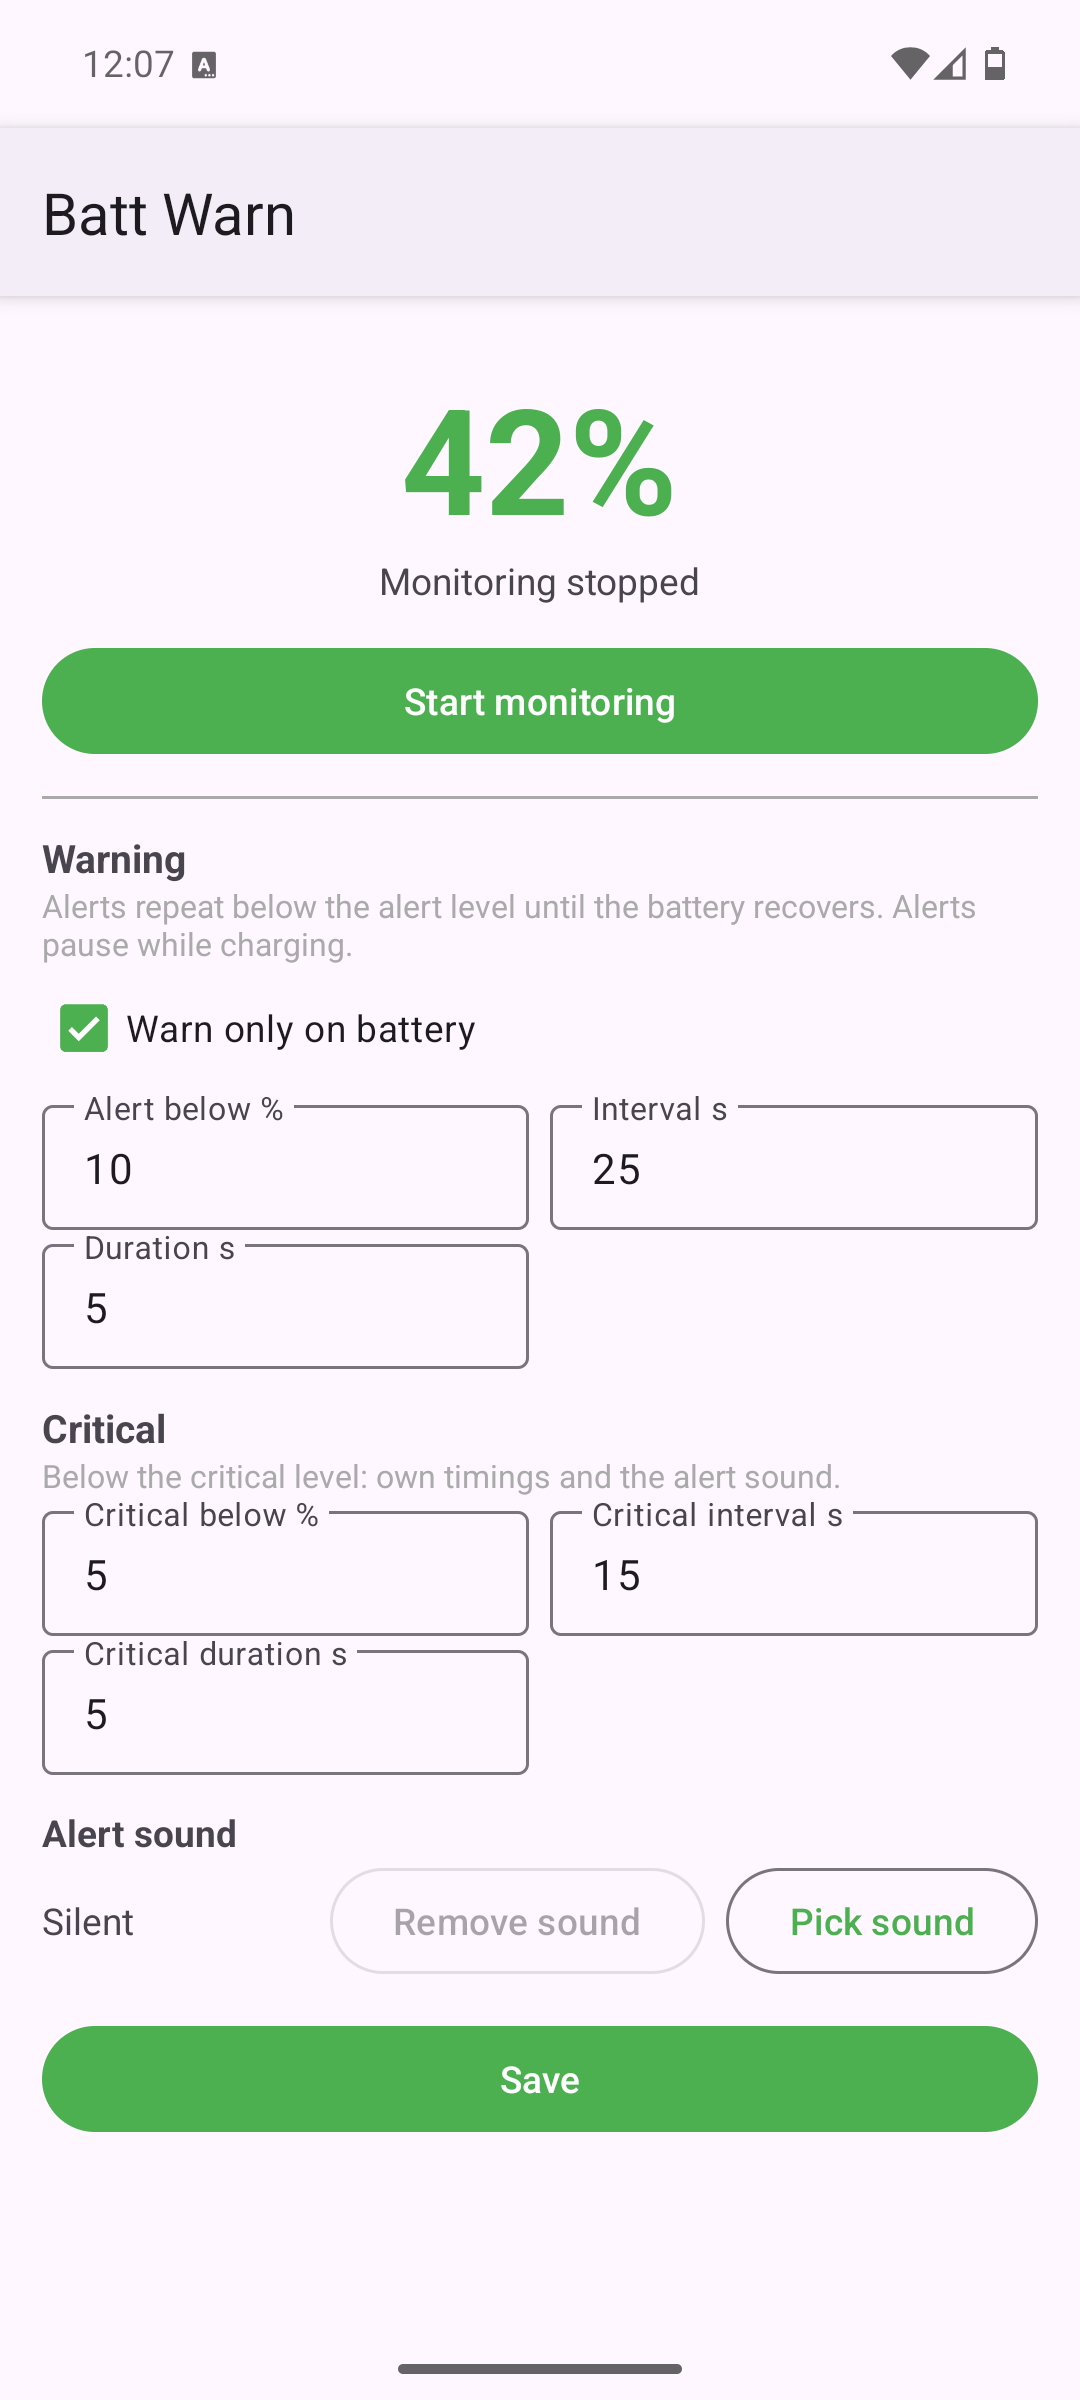
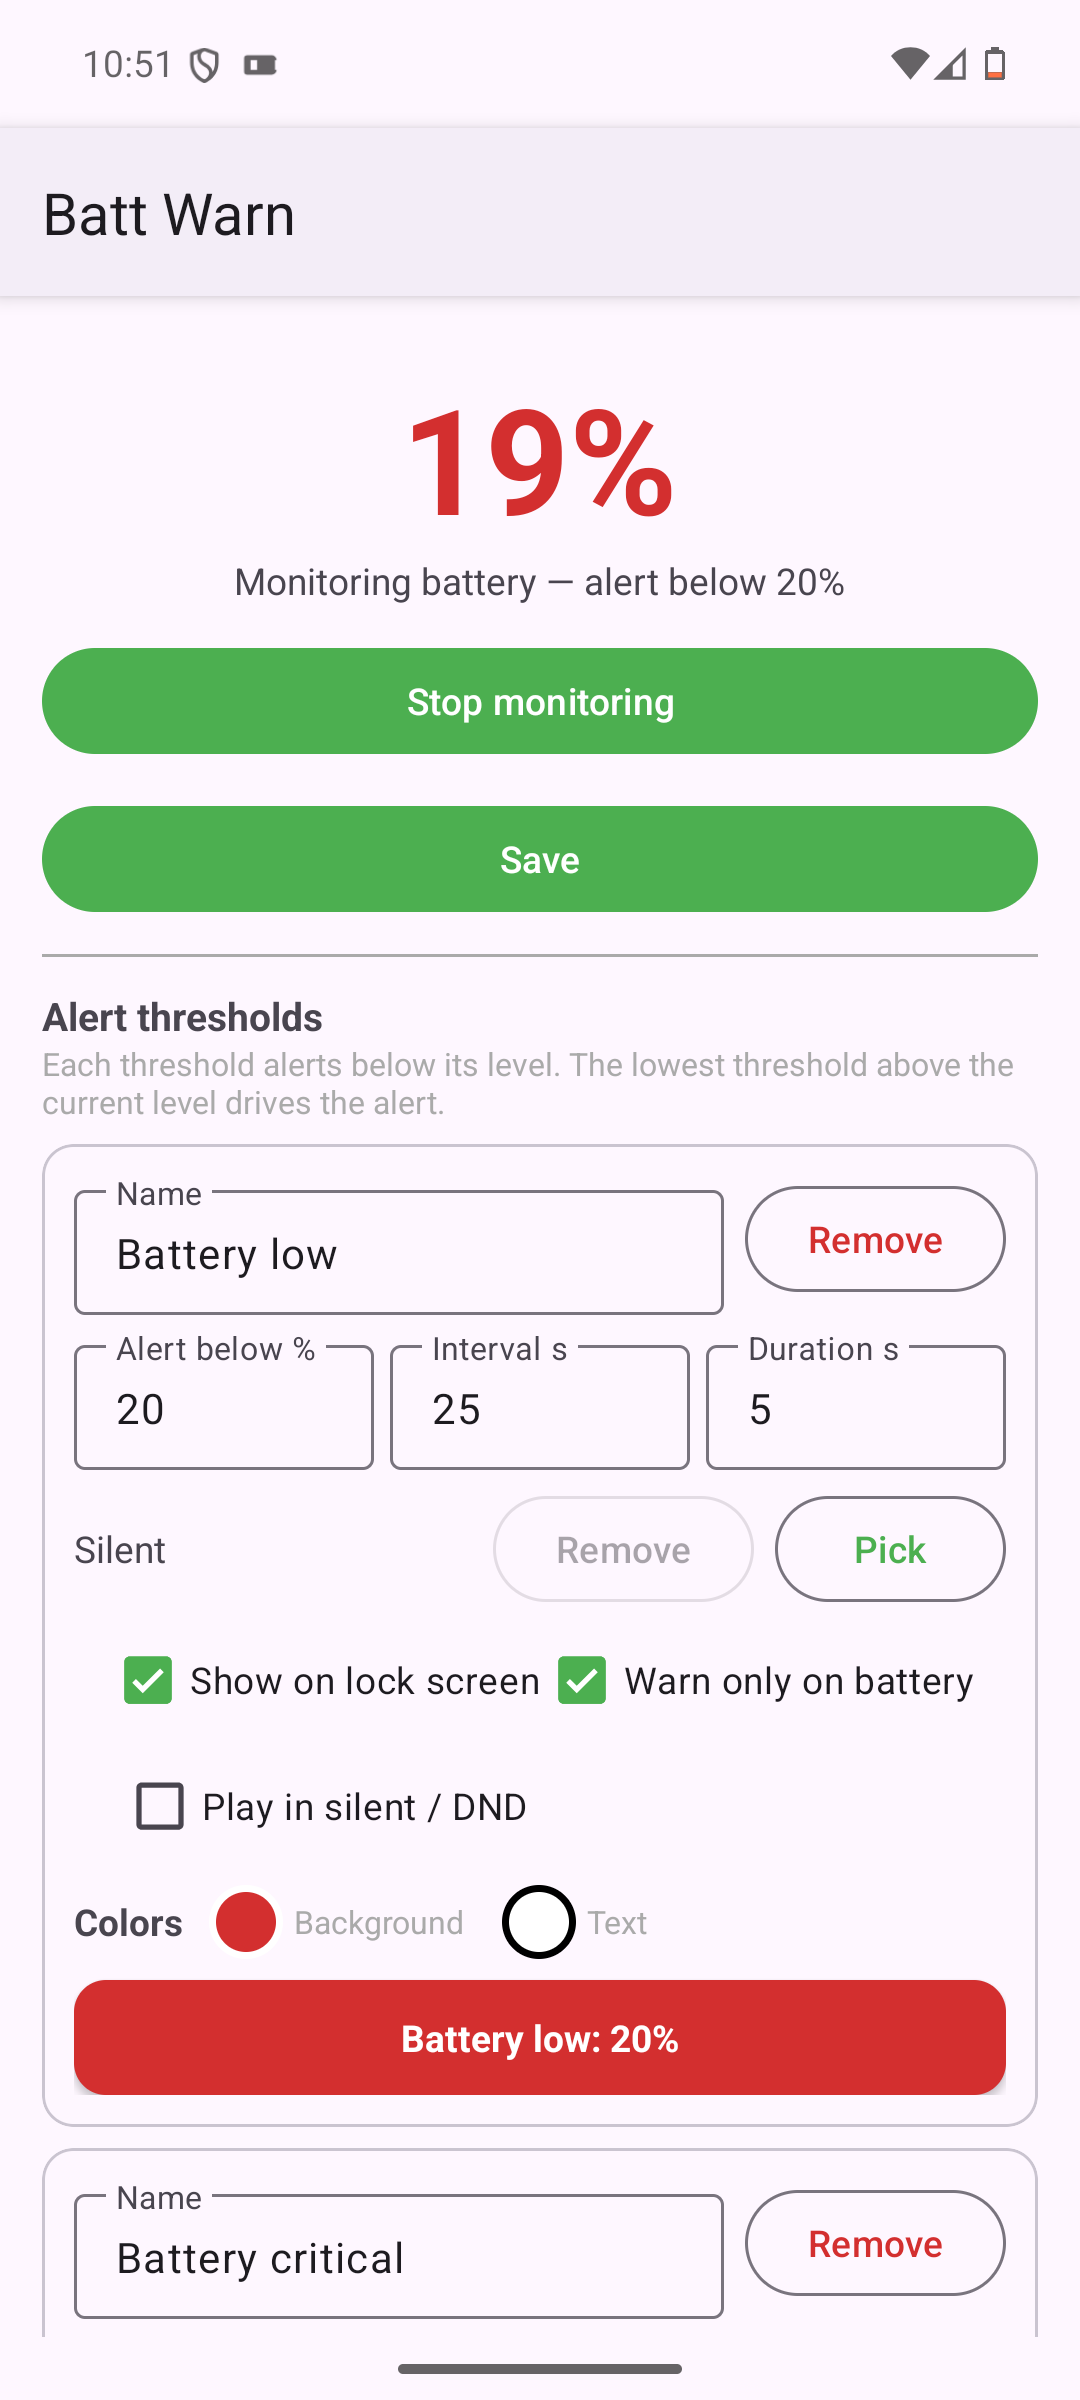
docs: refresh screenshots and update the license and project docs
Broaden NOTICE to the full bundled Apache-2.0 classpath (AndroidX incl.
viewbinding and transitives, Material, Kotlin stdlib, coroutines, Guava,
errorprone and JetBrains annotations) and mirror it in the README runtime
list. Fix the README test counts, drop the duplicate warn-only bullet, and
document the legal-resource pipeline, About screen and corrected Gradle
task names across AGENTS.md and docs/. Refresh the stale screenshots and
add About, lock-screen and color-picker captures.

diff --git a/AGENTS.md b/AGENTS.md
@@ -40,6 +40,7 @@ make devices      # adb devices
 make emulator     # boot headless API 35 emulator (AVD "test") if not running
 make test         # gradle connectedDebugAndroidTest + per-test PASS/FAIL summary
 make test-boot    # boot emulator (waits for boot) then run instrumented tests
+make screenshots  # capture/refresh docs/screenshots from a running emulator
 ```
 
 Direct Gradle options:
@@ -47,7 +48,7 @@ Direct Gradle options:
 ```
 gradle assembleDebug            # build debug APK
 gradle lintDebug                # Android Lint
-gradle testUnitTest             # JVM unit tests (threshold model, no emulator)
+gradle testDebugUnitTest        # JVM unit tests (threshold model, no emulator)
 gradle connectedDebugAndroidTest  # instrumented tests (emulator must be up)
 
 make test streams failures live while running and ends with a per-test
@@ -70,7 +71,8 @@ screen already on + overlay permission, activity renders the message/colors and
 auto-dismisses), the charging suppression (the active tier's
 warn-only-on-battery flag pauses or continues alerts while plugged in), the
 threshold-list settings (fresh 20%/9% baseline, JSON
-round-trip, add/load rows), and the main activity UI.
+round-trip, add/load rows), the main activity UI, and the in-app legal screen
+(version, privacy, MIT, third-party notices, Apache-2.0).
 
 ## Project layout
 
@@ -83,8 +85,10 @@ app/src/main/kotlin/com/example/battwarn/
   AlertThreshold.kt            # tier data class, JSON codec, selection helpers, color palette
   OverlayAlert.kt              # floating "always visible" alert banner (SYSTEM_ALERT_WINDOW)
   LockScreenAlertActivity.kt   # full-screen warning above the lock screen (showWhenLocked)
+  AboutActivity.kt             # in-app legal screen (version, privacy, MIT, notices, Apache-2.0)
 app/src/main/AndroidManifest.xml
 app/src/main/res/              # layout, strings, colors, theme, icons
+app/src/main/res/layout/activity_about.xml  # About screen layout
 app/src/androidTest/kotlin/com/example/battwarn/
   BootReceiverTest.kt          # autostart contract (manifest + receiver behavior)
   ServiceSmokeTest.kt          # FGS lifecycle + notification
@@ -95,10 +99,15 @@ app/src/androidTest/kotlin/com/example/battwarn/
   OverlayAlertTest.kt          # overlay permission + banner render/hide/dismiss callback
   OverrideSilentDndTest.kt     # per-threshold silent/DND override + UI round-trip
   LockScreenAlertTest.kt       # lock-screen gate, activity render/colors/auto-dismiss, UI round-trip
+  AboutActivityTest.kt         # in-app legal screen renders version, privacy, MIT, notices, Apache-2.0
 app/src/test/kotlin/com/example/battwarn/
   AlertThresholdTest.kt        # JVM unit tests: selection, JSON codec, colors (no emulator)
+LICENSE                        # MIT license text (single source for the in-app copy)
+NOTICE                         # third-party attributions + AI disclosure
+LICENSES/Apache-2.0.txt        # full Apache-2.0 text for the bundled libraries
 shell.nix                      # nix dev env (JDK, Gradle, Android SDK, emulator)
 Makefile                       # command wrappers
+scripts/                       # test-report.sh, screenshots.sh
 README.md                      # project overview and quick start
 docs/                          # architecture, behavior, testing, screenshots
 ```
@@ -177,6 +186,12 @@ docs/                          # architecture, behavior, testing, screenshots
   codec and selection helpers are JVM-unit-testable. MainActivity keeps the
   in-memory edits per row until Save.
 - `viewBinding` is enabled; use it in new layouts.
+- The in-app legal texts are generated at build time (`generateLegalResources`
+  in `app/build.gradle.kts`) from the repo's `LICENSE`, `NOTICE`, and
+  `LICENSES/Apache-2.0.txt`, which are the single source of truth. Never copy
+  legal text into source or `res/`; edit the top-level files instead. When the
+  bundled dependencies change, update `NOTICE` (and the README list) to match
+  the release runtime classpath.
 - Every source file (Kotlin, XML, Gradle, shell, make) carries the SPDX header
   `// SPDX-FileCopyrightText: 2026 Batt Warn authors` and
   `// SPDX-License-Identifier: MIT` (XML uses `<!-- ... -->` comments; keep it

diff --git a/README.md b/README.md
@@ -18,16 +18,26 @@ alerts before the battery gets too low.
   sound, quiet interval, banner duration, lock-screen display, silent/DND
   override, background/text colors, and a per-threshold **Warn only on
   battery** mode that pauses alerts while charging.
-- Critical alerts can play a user-picked notification sound.
+- Every threshold can play a user-picked notification sound.
 - Floating bottom banner when “Display over other apps” is enabled.
 - Full-screen lock-screen warning (default on) while the display is already on.
 - Notification fallback with the current battery percentage.
-- Optional **Warn only on battery** mode (per threshold), which pauses that
-  tier's alerts while charging.
 - Starts after boot and package replacement.
-- Compact light/dark UI with live battery updates.
+- Compact light/dark UI with live battery updates, plus an in-app About screen
+  showing the license texts and privacy statement.
 
-More screenshots are available in [docs/screenshots](docs/screenshots/).
+Screenshots live in [docs/screenshots](docs/screenshots/): the main screen in
+light and dark mode, the low-battery state, the floating banner, the
+notification, the About/license screen, the lock-screen warning, and the color
+picker.
+
+<p align="center">
+  <img src="docs/screenshots/main-low.png" width="200" alt="Batt Warn monitoring a low battery">
+  <img src="docs/screenshots/notification.png" width="200" alt="Foreground-service battery notification">
+  <img src="docs/screenshots/about.png" width="200" alt="Batt Warn About screen with license and privacy texts">
+  <img src="docs/screenshots/lock-screen.png" width="200" alt="Full-screen low-battery warning over the lock screen">
+  <img src="docs/screenshots/color-picker.png" width="200" alt="Threshold color picker popup">
+</p>
 
 ## Quick start
 
@@ -111,7 +121,7 @@ other periodic background work.
 - Target/compile SDK: 35
 - Gradle: 8.14.4
 - JDK: 17
-- Instrumented tests: 43 (plus 7 JVM unit tests)
+- Instrumented tests: 51 (plus 8 JVM unit tests)
 
 ## Documentation
 
@@ -127,10 +137,22 @@ shipped inside the APK; the rest are build/test-only.
 
 Runtime (bundled in the APK):
 
-- [androidx.core:core-ktx 1.15.0](https://developer.android.com/jetpack/androidx) — Apache-2.0
-- [androidx.appcompat:appcompat 1.7.0](https://developer.android.com/jetpack/androidx) — Apache-2.0
-- [com.google.android.material:material 1.12.0](https://github.com/material-components/material-components-android) — Apache-2.0
-- [androidx.constraintlayout:constraintlayout 2.2.0](https://developer.android.com/jetpack/androidx) — Apache-2.0
+- [AndroidX](https://developer.android.com/jetpack/androidx) — `androidx.core:core-ktx 1.15.0`,
+  `androidx.appcompat:appcompat 1.7.0`, `androidx.constraintlayout:constraintlayout 2.2.0`,
+  `androidx.databinding:viewbinding 8.10.1`, and their transitive AndroidX
+  dependencies — Apache-2.0
+- [Material Components for Android](https://github.com/material-components/material-components-android) —
+  `com.google.android.material:material 1.12.0` — Apache-2.0
+- [Kotlin standard library](https://github.com/JetBrains/kotlin) —
+  `org.jetbrains.kotlin:kotlin-stdlib 2.2.21` (and its common/jdk7/jdk8 modules) — Apache-2.0
+- [Kotlin Coroutines](https://github.com/Kotlin/kotlinx.coroutines) —
+  `org.jetbrains.kotlinx:kotlinx-coroutines-android` / `kotlinx-coroutines-core 1.6.4` — Apache-2.0
+- [Guava listenablefuture](https://github.com/google/guava) —
+  `com.google.guava:listenablefuture 1.0` — Apache-2.0
+- [Error Prone annotations](https://github.com/google/error-prone) —
+  `com.google.errorprone:error_prone_annotations 2.15.0` — Apache-2.0
+- [JetBrains annotations](https://github.com/JetBrains/java-annotations) —
+  `org.jetbrains:annotations 13.0` — Apache-2.0
 
 Build/test-only:
 

diff --git a/docs/architecture.md b/docs/architecture.md
@@ -11,6 +11,7 @@
 | `AlertThreshold` | Data class for one tier (level, name, timings, sound, flags, colors), JSON codec, and pure selection helpers |
 | `OverlayAlert` | Bottom `TYPE_APPLICATION_OVERLAY` banner with auto/tap dismissal, tinted per threshold |
 | `LockScreenAlertActivity` | Full-screen `showWhenLocked` warning above the keyguard; auto/tap dismissal; colored per threshold |
+| `AboutActivity` | In-app legal screen: version, privacy statement, MIT license, third-party notices, and the full Apache-2.0 text |
 
 ## State flow
 
@@ -73,3 +74,21 @@ Intervals and durations accept values of one second or greater with no upper
 cap. Levels are clamped to 0–100, must be unique, and are stored sorted by
 level descending (most severe first). Colors are persisted as `#RRGGBB`
 strings and parsed by the pure `parseHexColor` helper.
+
+## Legal texts
+
+The app is MIT-licensed, and the About screen shows the legal texts inside the
+app. They are generated at build time, so each text has exactly one source in
+the repo:
+
+| Source | Generated raw resource | Shown as |
+| --- | --- | --- |
+| `LICENSE` | `mit_license.txt` | the app's MIT license |
+| `NOTICE` | `third_party_notices.txt` | third-party attributions |
+| `LICENSES/Apache-2.0.txt` | `apache_license_2_0.txt` | full Apache-2.0 text |
+
+The Gradle `generateLegalResources` task copies the three files into
+`build/generated/legal/res/raw`, which is added to the main resource set.
+`AboutActivity` reads them with `openRawResource`. Every bundled runtime library
+is Apache-2.0 (see `NOTICE`); build- and test-only dependencies are not
+distributed.

diff --git a/docs/testing.md b/docs/testing.md
@@ -30,6 +30,8 @@ afterward through `scripts/test-report.sh`, producing one status line per test.
 
 The emulator suite currently contains 51 tests across these classes:
 
+- `AboutActivityTest` — in-app legal screen renders the version, privacy
+  statement, MIT license, third-party notices, and the full Apache-2.0 text.
 - `AlertIntervalTest` — dismissal-based duration + quiet pause cycle.
 - `BatteryDropTest` — below-highest-threshold detection and the active tier's
   notification title.
@@ -55,7 +57,7 @@ The emulator suite currently contains 51 tests across these classes:
 
 The pure model logic (active-tier selection, JSON codec, color parsing) is also
 covered by JVM unit tests in `app/src/test` (`AlertThresholdTest`, 8 tests) —
-they run with `gradle testUnitTest` and need no emulator. The unit tests use
+they run with `gradle testDebugUnitTest` and need no emulator. The unit tests use
 the `org.json` artifact because the platform's JSON classes are not available on
 the plain JVM.
 

diff --git a/docs/behavior.md b/docs/behavior.md
@@ -109,3 +109,15 @@ the boot receiver again until the app is manually opened.
 IDLE mode has no polling loop or scheduled alarm. The app listens for battery
 events and only starts the active cycle below the highest threshold. There are
 no network, GPS, or wake-lock operations.
+
+## About, licenses, and privacy
+
+The main screen's **About** button opens an in-app legal screen showing the app
+version, a privacy statement, the MIT license, the third-party notices for the
+bundled libraries, and the full Apache-2.0 license text. The texts are
+generated at build time from `LICENSE`, `NOTICE`, and
+`LICENSES/Apache-2.0.txt`, so each is maintained in exactly one place.
+
+The app collects, transmits, and shares no data. It declares no network
+permission: battery level is read only on the device, and settings stay in
+local storage.
